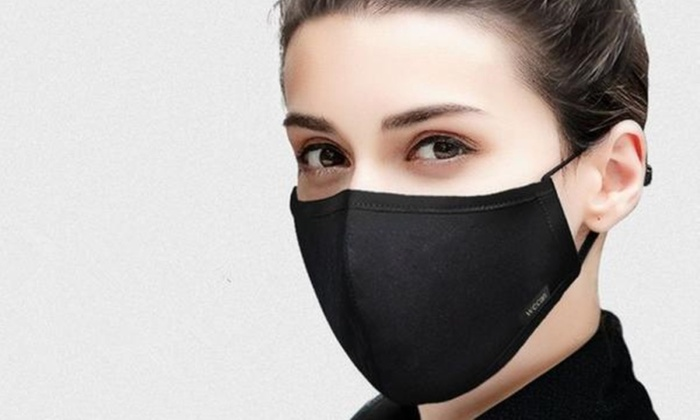
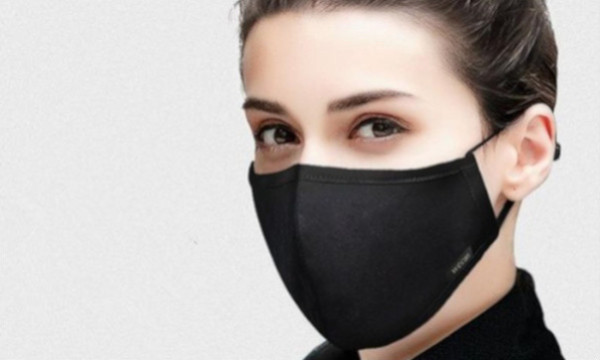
Redimensionar imagens e atualizações no site

diff --git a/index.html b/index.html
@@ -15,9 +15,6 @@
         <div><a href="sobre.html">Sobre</a></div>
         <div><a href="contato.html">Contato</a></div>
         <div><a href="saibamais.html">Saiba mais</a></div>
-        <div><a href="https://coronavirus.saude.gov.br/" target="_blank">Cuidados</a></div>
-        <div><a href="https://www.covidvisualizer.com/" target="_blank">Dados</a></div>
-        <div><a href="https://www.google.com/search?q=Coronav%C3%ADrus" target="_blank">Mais notícias</a></div>
     </div>
     <div id="Notícias">
         <h2>Últimas notícias</h2>
@@ -32,14 +29,14 @@
                 lendo&nbsp;</a>
         </div>
         <div class="destaqueChamadas">
-            <iframe width="420" height="315" src="https://www.youtube.com/embed/rPU28Sa9OJw"></iframe>
+            <iframe width="560" height="315" src="https://www.youtube.com/embed/rPU28Sa9OJw"></iframe>
             <h3>Live - Distanciamento social: até quando?</h3>
             <p>Essa pandemia pode ser um problema longo. Como vamos passar por isso...</p>
             <a target="_blank" rel="noreferrer" href="https://www.youtube.com/watch?v=rPU28Sa9OJw">Saiba mais&nbsp;</a>
         </div>
         <div class="destaqueChamadas">
-            <img src="imagens/Hipsters.png" alt="Banner Hispters Ponto Tech" />
-            <iframe width="320" height="30"
+            <img src="imagens/Hipsters.png" alt="Banner Hispters Ponto Tech" /><br/>
+            <iframe width="600" height="35"
                 src="https://hipsters.tech/?powerpress_embed=3051-podcast&amp;powerpress_player=mediaelement-audio"
                 frameborder="0" scrolling="no"></iframe>
             <h3>Tecnologia e computação no combate ao vírus – Hipsters</h3>
@@ -52,16 +49,7 @@
 
     <div id="rodape">
         <div id="Contato">
-            <h4>Se você chegou até aqui e gostou do que viu me mande um "Oi"</h4>
-            <form>
-                <h4>Qual o seu gênero?</h4>
-                <input type="radio" id="male" name="gender" value="male">
-                <label for="male">Homem</label><br>
-                <input type="radio" id="female" name="gender" value="female">
-                <label for="female">Mulher</label><br>
-                <input type="radio" id="other" name="gender" value="other">
-                <label for="other">Outro</label>
-            </form>
+            <h4>Se você chegou até aqui me dê um sinal</h4>
             <form>
                 <h4>O que você achou desse site?</h4>
                 <input type="checkbox" id="like/dislike" name="like/dislike1" value="like">
@@ -75,15 +63,14 @@
                 <input type="url" id="homepage" name="homepage">
             </form>
         </div>
-        <div>
-            <p>Feito por Aline Pina</p>
-        </div>
+
     </div>
-
-
-
-
-
 </body>
+
+<footer class="footer">
+    <div class="container">
+        <p class="fonte text">Desenvolvido por Aline Pina</p>
+    </div>
+</footer>
 
 </html>

diff --git a/estilo.css b/estilo.css
@@ -9,12 +9,27 @@ body {
     display: flex;
     flex-direction: column;
     align-items: stretch;
+    padding: 20px;
 }
 
 #cabecalho {
     display: flex;
     justify-content: center;
     align-items: center;
+}
+
+.destaqueChamadas {
+    background-color: #c9f8a6;
+	padding: 10px 0px 0px 0px;
+	position: relative;
+	cursor: pointer;
+    text-align: center;
+    
+}
+
+.faixa{
+	width: 100%;
+	background: #282A2D;
 }
 
 .covid-logo{
@@ -26,4 +41,12 @@ body {
     display: flex;
     flex-direction: row;
     justify-content: space-around;
+    padding: 10px;
+}
+
+.footer{
+	background: #282A2D;
+	color:#fff;
+	text-align: center;
+	padding: 1px 0px;	
 }
